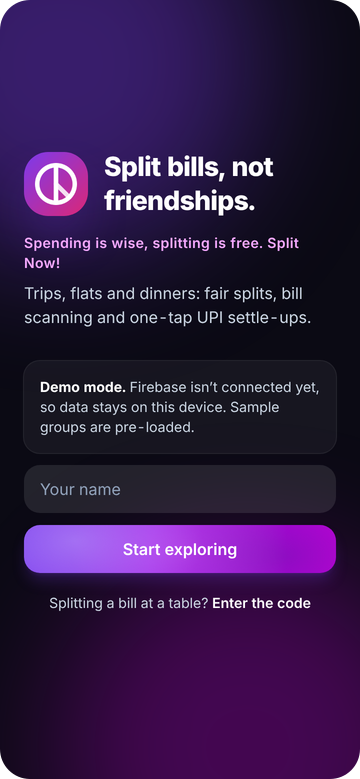
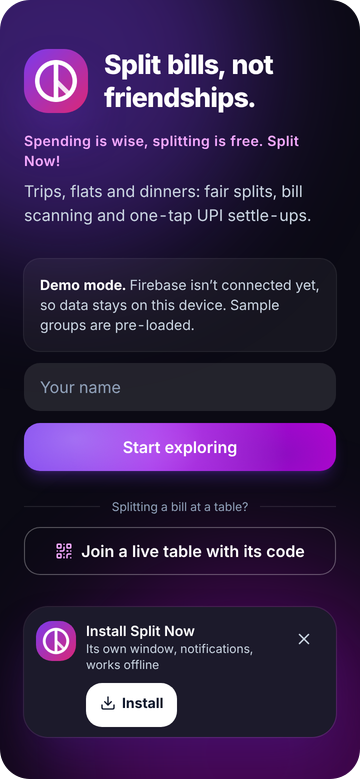
Release 6.3.1: install offer on the sign-in screen; notifications card only in the installed app (#80)

diff --git a/src/components/InstallBanner.tsx b/src/components/InstallBanner.tsx
@@ -226,6 +226,69 @@ export function InstallRow({ className = 'card', testId = 'install-row' }: { cla
 }
 
 /**
+ * The dark "Install Split Now" bar: the app icon, why, Install (the browser's own dialog, or the
+ * steps where there is none) and ✕, which stops the offer for good. Shared by the banner above the
+ * tab bar and the sign-in screen.
+ */
+function InstallBar({ hint, onDone, className, wrap = false }: { hint: string; onDone: () => void; className: string; wrap?: boolean }) {
+  const install = useInstall()
+  const [steps, setSteps] = useState(false)
+  const method = install.method
+  const installButton = (
+    <button
+      type="button"
+      className="min-h-11 shrink-0 rounded-2xl bg-white px-3.5 py-2 text-sm font-bold text-slate-900"
+      onClick={async () => {
+        if (install.canPrompt) {
+          if (await install.prompt()) onDone()
+        } else setSteps(true)
+      }}
+      data-testid="install-banner-install"
+    >
+      <span className="inline-flex items-center gap-1.5">
+        <Download size={16} aria-hidden /> Install
+      </span>
+    </button>
+  )
+  return (
+    <>
+      <div className={className} data-testid="install-banner">
+        {/* wrap (the sign-in screen): the words get the full width and Install sits under them. */}
+        <div
+          className={`flex gap-2.5 rounded-3xl bg-slate-900 p-2.5 pl-3 text-white shadow-2xl shadow-brand-900/40 dark:bg-ink-800 dark:ring-1 dark:ring-white/10 ${wrap ? 'items-start' : 'items-center'}`}
+        >
+          <img src="/pwa-192.png" alt="" className={`h-10 w-10 shrink-0 rounded-2xl ${wrap ? 'mt-1' : ''}`} />
+          <div className={`min-w-0 flex-1 ${wrap ? 'pt-1' : ''}`}>
+            <div className={`${wrap ? '' : 'truncate '}text-sm font-semibold`}>Install Split Now</div>
+            <HintText as="div" className={`${wrap ? '' : 'truncate '}text-xs text-slate-300`} hint={{ full: hint, tier: 'help' }} />
+            {wrap && <div className="mt-2.5">{installButton}</div>}
+          </div>
+          {!wrap && installButton}
+          <button
+            type="button"
+            onClick={() => {
+              dismissInstall(storage('localStorage'))
+              onDone()
+            }}
+            className="flex h-11 w-11 shrink-0 items-center justify-center rounded-full text-slate-300 hover:text-white"
+            aria-label="Don’t ask again"
+          >
+            <X size={18} />
+          </button>
+        </div>
+      </div>
+      <Sheet
+        open={steps}
+        onClose={() => setSteps(false)}
+        title={method === 'mac' ? 'Add to Dock' : method === 'ios' || !method ? 'Add to Home Screen' : 'Install Split Now'}
+      >
+        {method && method !== 'ios' && method !== 'prompt' ? <MenuInstallSteps method={method} /> : <IOSInstallSteps />}
+      </Sheet>
+    </>
+  )
+}
+
+/**
  * "Install Split Now" above the tab bar: offered on the second visit or once the first expense
  * exists (src/lib/install.ts), and gone for good after a dismiss. Settings → Data keeps a row to
  * install later, and so does Profile (InstallRow). iOS gets the reason that matters there: notifications need the installed app.
@@ -235,55 +298,40 @@ export function InstallBanner() {
   const data = useAllGroupData()
   const [visits] = useState(() => countVisit(storage('localStorage'), storage('sessionStorage')))
   const [hidden, setHidden] = useState(() => isInstallDismissed(storage('localStorage')))
-  const [iosOpen, setIosOpen] = useState(false)
 
   const hasExpense = !!data?.some((d) => d.expenses.length > 0)
   if (hidden || !install.available || !shouldOfferInstall({ visits, hasExpense, dismissed: hidden })) return null
-
-  const dismiss = () => {
-    dismissInstall(storage('localStorage'))
-    setHidden(true)
-  }
-
   return (
-    <>
-      <div className="install-banner animate-pop fixed inset-x-3 bottom-[var(--lane)] z-40 mx-auto max-w-md" data-testid="install-banner">
-        <div className="flex items-center gap-2.5 rounded-3xl bg-slate-900 p-2.5 pl-3 text-white shadow-2xl shadow-brand-900/40 dark:bg-ink-800 dark:ring-1 dark:ring-white/10">
-          <img src="/pwa-192.png" alt="" className="h-10 w-10 shrink-0 rounded-2xl" />
-          <div className="min-w-0 flex-1">
-            <div className="truncate text-sm font-semibold">Install Split Now</div>
-            <HintText
-              as="div"
-              className="truncate text-xs text-slate-300"
-              hint={{ full: install.ios ? 'Add to Home Screen for notifications and offline use' : 'Full-screen, faster, works offline', tier: 'help' }}
-            />
-          </div>
-          <button
-            type="button"
-            className="min-h-11 shrink-0 rounded-2xl bg-white px-3.5 py-2 text-sm font-bold text-slate-900"
-            onClick={async () => {
-              if (install.canPrompt) {
-                if (await install.prompt()) setHidden(true)
-              } else setIosOpen(true)
-            }}
-          >
-            <span className="inline-flex items-center gap-1.5">
-              <Download size={16} aria-hidden /> Install
-            </span>
-          </button>
-          <button
-            type="button"
-            onClick={dismiss}
-            className="flex h-11 w-11 shrink-0 items-center justify-center rounded-full text-slate-300 hover:text-white"
-            aria-label="Don’t ask again"
-          >
-            <X size={18} />
-          </button>
-        </div>
-      </div>
-      <Sheet open={iosOpen} onClose={() => setIosOpen(false)} title="Add to Home Screen">
-        <IOSInstallSteps />
-      </Sheet>
-    </>
+    <InstallBar
+      hint={install.ios ? 'Add to Home Screen for notifications and offline use' : 'Full-screen, faster, works offline'}
+      onDone={() => setHidden(true)}
+      className="install-banner animate-pop fixed inset-x-3 bottom-[var(--lane)] z-40 mx-auto max-w-md"
+    />
+  )
+}
+
+/**
+ * The same offer on the sign-in screen, from the first visit: installing before signing in means
+ * signing in once. On an iPhone the Home Screen app keeps its own sign-in, apart from Safari's.
+ * In the flow of the page (not floating), so it never covers the sign-in buttons.
+ */
+export function LoginInstallBanner() {
+  const install = useInstall()
+  const [hidden, setHidden] = useState(() => isInstallDismissed(storage('localStorage')))
+  if (hidden || !install.method) return null
+  const phone = install.ios || /Android|Mobi/.test(navigator.userAgent)
+  return (
+    <InstallBar
+      hint={
+        install.ios
+          ? 'Add it to your Home Screen, then sign in there'
+          : phone
+            ? 'Install first, then sign in once'
+            : 'Its own window, notifications, works offline'
+      }
+      onDone={() => setHidden(true)}
+      className="animate-pop mt-8"
+      wrap
+    />
   )
 }

diff --git a/src/components/PushPrompt.tsx b/src/components/PushPrompt.tsx
@@ -4,7 +4,6 @@ import { useGroups } from '@/hooks/data'
 import { useFlag } from '@/hooks/useAppConfig'
 import { isIOS, isStandalone, permission, pushSupported } from '@/lib/push'
 import { closedPlaces, pushDevice, pushPromptStep, type PushPromptPlace } from '@/lib/push-prompt'
-import { IOSInstallSteps } from './InstallBanner'
 import { notificationsAvailable, useTurnOnPush } from './NotificationSettings'
 import { Sheet } from './Sheet'
 
@@ -77,12 +76,12 @@ function UnblockSteps() {
     return (
       <ol className="space-y-4">
         <Step icon={<Settings size={20} />}>
-          Open <b>Safari</b> → <b>Settings</b> → <b>Websites</b> → <b>Notifications</b>.
+          Open <b>System Settings</b> → <b>Notifications</b>.
         </Step>
-        <Step icon={<ToggleRight size={20} />}>
-          Set <b>{host}</b> to <b>Allow</b>.
+        <Step icon={<Smartphone size={20} />}>
+          Find <b>Split Now</b> in the list and turn on <b>Allow notifications</b>.
         </Step>
-        <Step icon={<RefreshCw size={20} />}>Reload this page.</Step>
+        <Step icon={<RefreshCw size={20} />}>Come back here.</Step>
       </ol>
     )
   if (device === 'firefox')
@@ -99,8 +98,8 @@ function UnblockSteps() {
     )
   return (
     <ol className="space-y-4">
-      <Step icon={<Lock size={20} />}>
-        Click the icon at the left of the address bar, next to <b>{host}</b>.
+      <Step icon={<MoreVertical size={20} />}>
+        In the Split Now window, click <b>⋮</b> at the top right, then <b>App info</b> (or the icon by <b>{host}</b>).
       </Step>
       <Step icon={<ToggleRight size={20} />}>
         Turn on <b>Notifications</b> (or set them to <b>Allow</b>).
@@ -142,7 +141,6 @@ export function PushPrompt({ place, className = '' }: { place: PushPromptPlace; 
   const step = on
     ? pushPromptStep({
         available: notificationsAvailable(),
-        ios: isIOS(),
         standalone: isStandalone(),
         supported: pushSupported(),
         perm,
@@ -159,11 +157,9 @@ export function PushPrompt({ place, className = '' }: { place: PushPromptPlace; 
     setClosed(next)
   }
   const line =
-    step === 'install'
-      ? 'On iPhone, notifications need Split Now on your Home Screen first.'
-      : step === 'blocked'
-        ? 'Notifications are blocked on this device. It takes a minute to turn them back on.'
-        : 'Know when someone adds an expense with you, pays you back or writes in a group.'
+    step === 'blocked'
+      ? 'Notifications are blocked on this device. It takes a minute to turn them back on.'
+      : 'Know when someone adds an expense with you, pays you back or writes in a group.'
 
   return (
     <section className={`card flex items-start gap-3 p-4 ${className}`} aria-labelledby={`push-prompt-${place}`} data-testid={`push-prompt-${place}`}>
@@ -219,14 +215,7 @@ export function PushPrompt({ place, className = '' }: { place: PushPromptPlace; 
             <MessagesSquare size={16} className="shrink-0 text-brand-600 dark:text-brand-300" aria-hidden /> New messages in your groups’ chats
           </li>
         </ul>
-        {step === 'install' ? (
-          <>
-            <IOSInstallSteps />
-            <p className="text-muted mt-4 text-sm">
-              Then open Split Now from your Home Screen and tap <b>Turn on</b> on this card.
-            </p>
-          </>
-        ) : step === 'blocked' ? (
+        {step === 'blocked' ? (
           <>
             <p className="text-muted mb-4 text-sm">Split Now can’t ask again once notifications are blocked, so they are turned back on in settings:</p>
             <UnblockSteps />

diff --git a/src/lib/push-prompt.ts b/src/lib/push-prompt.ts
@@ -1,19 +1,19 @@
 /*
  * "Turn on notifications": the card that asks for notifications once someone is using the app
- * (in a group), never on first launch. It shows on Home and at the top of Settings; closing it in
- * one place hides it there only. A tap opens step-by-step help for this device: add to the Home
- * Screen first on an iPhone browser tab, one Allow when the browser can ask, or how to unblock them
- * in the phone's or the browser's own settings when they were blocked (no web app can open those
- * screens for you, nor ask again once blocked).
+ * (in a group) in the installed app, never on first launch and never in a browser tab, where the
+ * install offer is the one thing asked (owner's call: not both at once). It shows on Home and at the
+ * top of Settings; closing it in one place hides it there only. Allow is one tap; when notifications
+ * were blocked it shows how to allow them in the phone's or the browser's own settings (no web app
+ * can open those screens for you, nor ask again once blocked).
  */
 
 /** What the card asks for on this device; null hides it. */
-export type PushPromptStep = 'install' | 'allow' | 'blocked'
+export type PushPromptStep = 'allow' | 'blocked'
 
 export function pushPromptStep(s: {
   /** this build sends notifications at all (Firebase and a VAPID key; never the demo) */
   available: boolean
-  ios: boolean
+  /** running as the installed app (Home Screen, dock, app list) */
   standalone: boolean
   /** this browser can receive web push */
   supported: boolean
@@ -21,9 +21,7 @@ export function pushPromptStep(s: {
   /** in at least one group: the card waits until the app is in use */
   inGroup: boolean
 }): PushPromptStep | null {
-  if (!s.available || !s.inGroup) return null
-  if (s.ios && !s.standalone) return 'install'
-  if (!s.supported) return null
+  if (!s.available || !s.inGroup || !s.standalone || !s.supported) return null
   return s.perm === 'default' ? 'allow' : s.perm === 'denied' ? 'blocked' : null
 }
 

diff --git a/src/lib/push-prompt.test.ts b/src/lib/push-prompt.test.ts
@@ -2,15 +2,15 @@ import { describe, expect, it } from 'vitest'
 import { closedPlaces, pushDevice, pushPromptStep } from './push-prompt'
 
 describe('pushPromptStep', () => {
-  const base = { available: true, ios: false, standalone: false, supported: true, perm: 'default' as const, inGroup: true }
+  const base = { available: true, standalone: true, supported: true, perm: 'default' as const, inGroup: true }
 
-  it('asks for one Allow when the browser can ask', () => {
+  it('asks for one Allow in the installed app', () => {
     expect(pushPromptStep(base)).toBe('allow')
-    expect(pushPromptStep({ ...base, ios: true, standalone: true })).toBe('allow')
   })
 
-  it('sends an iPhone browser tab to add the app first', () => {
-    expect(pushPromptStep({ ...base, ios: true, supported: false, perm: 'unsupported' })).toBe('install')
+  it('never shows in a browser tab, where the install offer is the one thing asked', () => {
+    expect(pushPromptStep({ ...base, standalone: false })).toBeNull()
+    expect(pushPromptStep({ ...base, standalone: false, supported: false, perm: 'unsupported' })).toBeNull()
   })
 
   it('shows how to unblock when notifications were blocked', () => {

diff --git a/src/pages/Login.tsx b/src/pages/Login.tsx
@@ -4,6 +4,7 @@ import { ChevronLeft, Loader2, Mail, QrCode, UserPlus } from 'lucide-react'
 import { repo } from '@/data'
 import { useToast } from '@/components/Toast'
 import { HintText } from '@/components/Hint'
+import { LoginInstallBanner } from '@/components/InstallBanner'
 import { useAppConfig } from '@/hooks/useAppConfig'
 import { errText } from '@/lib/errors'
 import { emailProblem } from '@/lib/account'
@@ -327,6 +328,8 @@ export default function Login() {
           </div>
         )}
       </div>
+      {/* Install before signing in, so it's once (an iPhone's Home Screen app has its own sign-in). */}
+      <LoginInstallBanner />
     </AuthShell>
   )
 }

diff --git a/docs/PLAN.md b/docs/PLAN.md
@@ -44,7 +44,7 @@ Splitwise solved "who owes whom". Its weak points today are where Split Now goes
 - ✅ Demo mode with no Firebase config: data lives in `localStorage`, so the UI runs immediately (the e2e suite runs against it)
 - ✅ **Profile** (`/profile`) is identity only: photo (upload or Google), name, mobile number, email, sign-in methods, **payment handles by region** (India: UPI ID, bank account + IFSC; Australia: PayID, BSB + account; International: PayPal.me, Revolut; "Show all payment options" reveals the rest), links to Settings and Balances, **Support the developer** (a sheet with Buy Me a Coffee, GitHub Sponsors and a star on the repository; the URLs are `SUPPORT_LINKS` in `src/lib/brand.ts`, mirrored in `.github/FUNDING.yml` and the README) and sign out. One phone field: the mobile number doubles as the UPI number when the switch "Friends can pay this number with UPI" is on. Everything autosaves (800 ms after typing stops, on blur, on leaving) with a quiet "Saved" pill; there is no Save button.
 - ✅ **Settings** (`/settings`, nested routes in `src/pages/Settings.tsx` + `src/pages/settings/*`, one lazy chunk per area): **Preferences** (default currency with the rates refresh, theme, accent, dual-tone), **Animations** (kept on the device, `src/lib/motion.ts`: one switch for all, then fireworks on/off with burst size and spark size (each Small / Medium / Big), Glitter on/off (as each burst spark burns out it leaves a brief flash of small lights, 80–300 ms, in and around the blast area, some bigger, some brighter, after Caleb Miller's crackle; `glint*` in `src/lib/motion.ts`) with Glitter size Tiny / Small / Medium / Big and Glitter shape Mix / Dots / Streaks / Stars / Curls (Mix: mostly dots with some of each), Twinkle on/off (off by default: some sparks pulse as they fade, the brightest with a small four-point star), colour flow on/off with speed Slow / Normal / Fast (0.5× / 1× / 3.2×; the drift and the breathing both follow it), floating circles on/off; a live preview of the Home card and an accent button, pinned under the title while the settings scroll and hidden or shown with the eye in the header (remembered on the device); the device's reduce-motion setting always wins), **Notifications**, **Automation** (auto-capture: master switch, filters, trips, capture keys, recent activity; Apple Pay / capture links under "Advanced"), **AI features** (Firebase only: one switch "Use AI" plus a consent line; the feature rows name the AI that will actually read for the person (`aiReaderName`); which key, model and the own-key form under "Advanced"), **Data** (CSV export of any group, Import from Splitwise, Install Split Now, version) and **Admin** (only for admins; opens `/admin`, §3.8). Old `/profile#auto-capture|#ai|#ai-admin|#notifications|#appearance` deep links redirect to the matching settings route.
-- ✅ **Turn on notifications card** (flag `pushPrompt`; `src/lib/push-prompt.ts`, `src/components/PushPrompt.tsx`): never on first launch; once the person is in a group, a card on Home and at the top of Settings asks for notifications. Closing it hides it in that place only, on this device (`sn-push-prompt-closed`), so closed on Home it still shows in Settings until closed there too; it goes away once notifications are on. When the browser can ask, **Turn on** is one tap (the system prompt), with **What you get** for the steps. On an iPhone browser tab it shows the Add to Home Screen steps first. When notifications were blocked it shows where to allow them again for this device (`pushDevice`: iPhone Settings → Notifications → Split Now; Android app info or Chrome site settings; Safari, Chrome / Edge and Firefox on a computer): no web app can open those screens or ask again once blocked. Coming back to the app picks up the change and registers the device. Not in the demo (no pushes there)
+- ✅ **Turn on notifications card** (flag `pushPrompt`; `src/lib/push-prompt.ts`, `src/components/PushPrompt.tsx`): never on first launch and never in a browser tab (there the install offer is the one thing asked, on the sign-in screen too: `LoginInstallBanner`); once the person is in a group, in the installed app, a card on Home and at the top of Settings asks for notifications. Closing it hides it in that place only, on this device (`sn-push-prompt-closed`), so closed on Home it still shows in Settings until closed there too; it goes away once notifications are on. **Turn on** is one tap (the system prompt), with **What you get** for the steps. When notifications were blocked it shows where to allow them again for this device (`pushDevice`: iPhone Settings → Notifications → Split Now; Android app info; macOS System Settings → Notifications; the installed Chrome / Edge window's App info): no web app can open those screens or ask again once blocked. Coming back to the app picks up the change and registers the device. Not in the demo (no pushes there)
 - ✅ **Locale** (`src/lib/locale.ts`): region from `navigator.language` + `Intl` time zone (an Indian time zone wins, so an en-US phone in Asia/Kolkata is still India); numbers and dates use en-IN for India and unknown regions, otherwise the user's locale, always with Western digits (`-u-nu-latn`). `<html lang>` stays `en` because the copy is English.
 - ⏳ Apple sign-in (needs an Apple developer account), phone OTP
 

diff --git a/CHANGELOG.md b/CHANGELOG.md
@@ -6,6 +6,11 @@ Release (`.github/workflows/release.yml`). Fixes are x.y.Z, new features x.Y.0, 
 
 ## Unreleased
 
+## 6.3.1 — October 2026
+
+- Sign-in screen: offers to install Split Now straight away, so you can install first and sign in once (on iPhone the Home Screen app has its own sign-in).
+- Turn on notifications: the card now shows only in the installed app. In a browser you see just the install offer, not both.
+
 ## 6.3.0 — October 2026
 
 - Turn on notifications: once you're in a group, a card on Home and in Settings asks to turn on notifications, with step-by-step help for your phone or browser (adding the app on iPhone first, or allowing them again if they were blocked). Close it and it stays away in that place.
